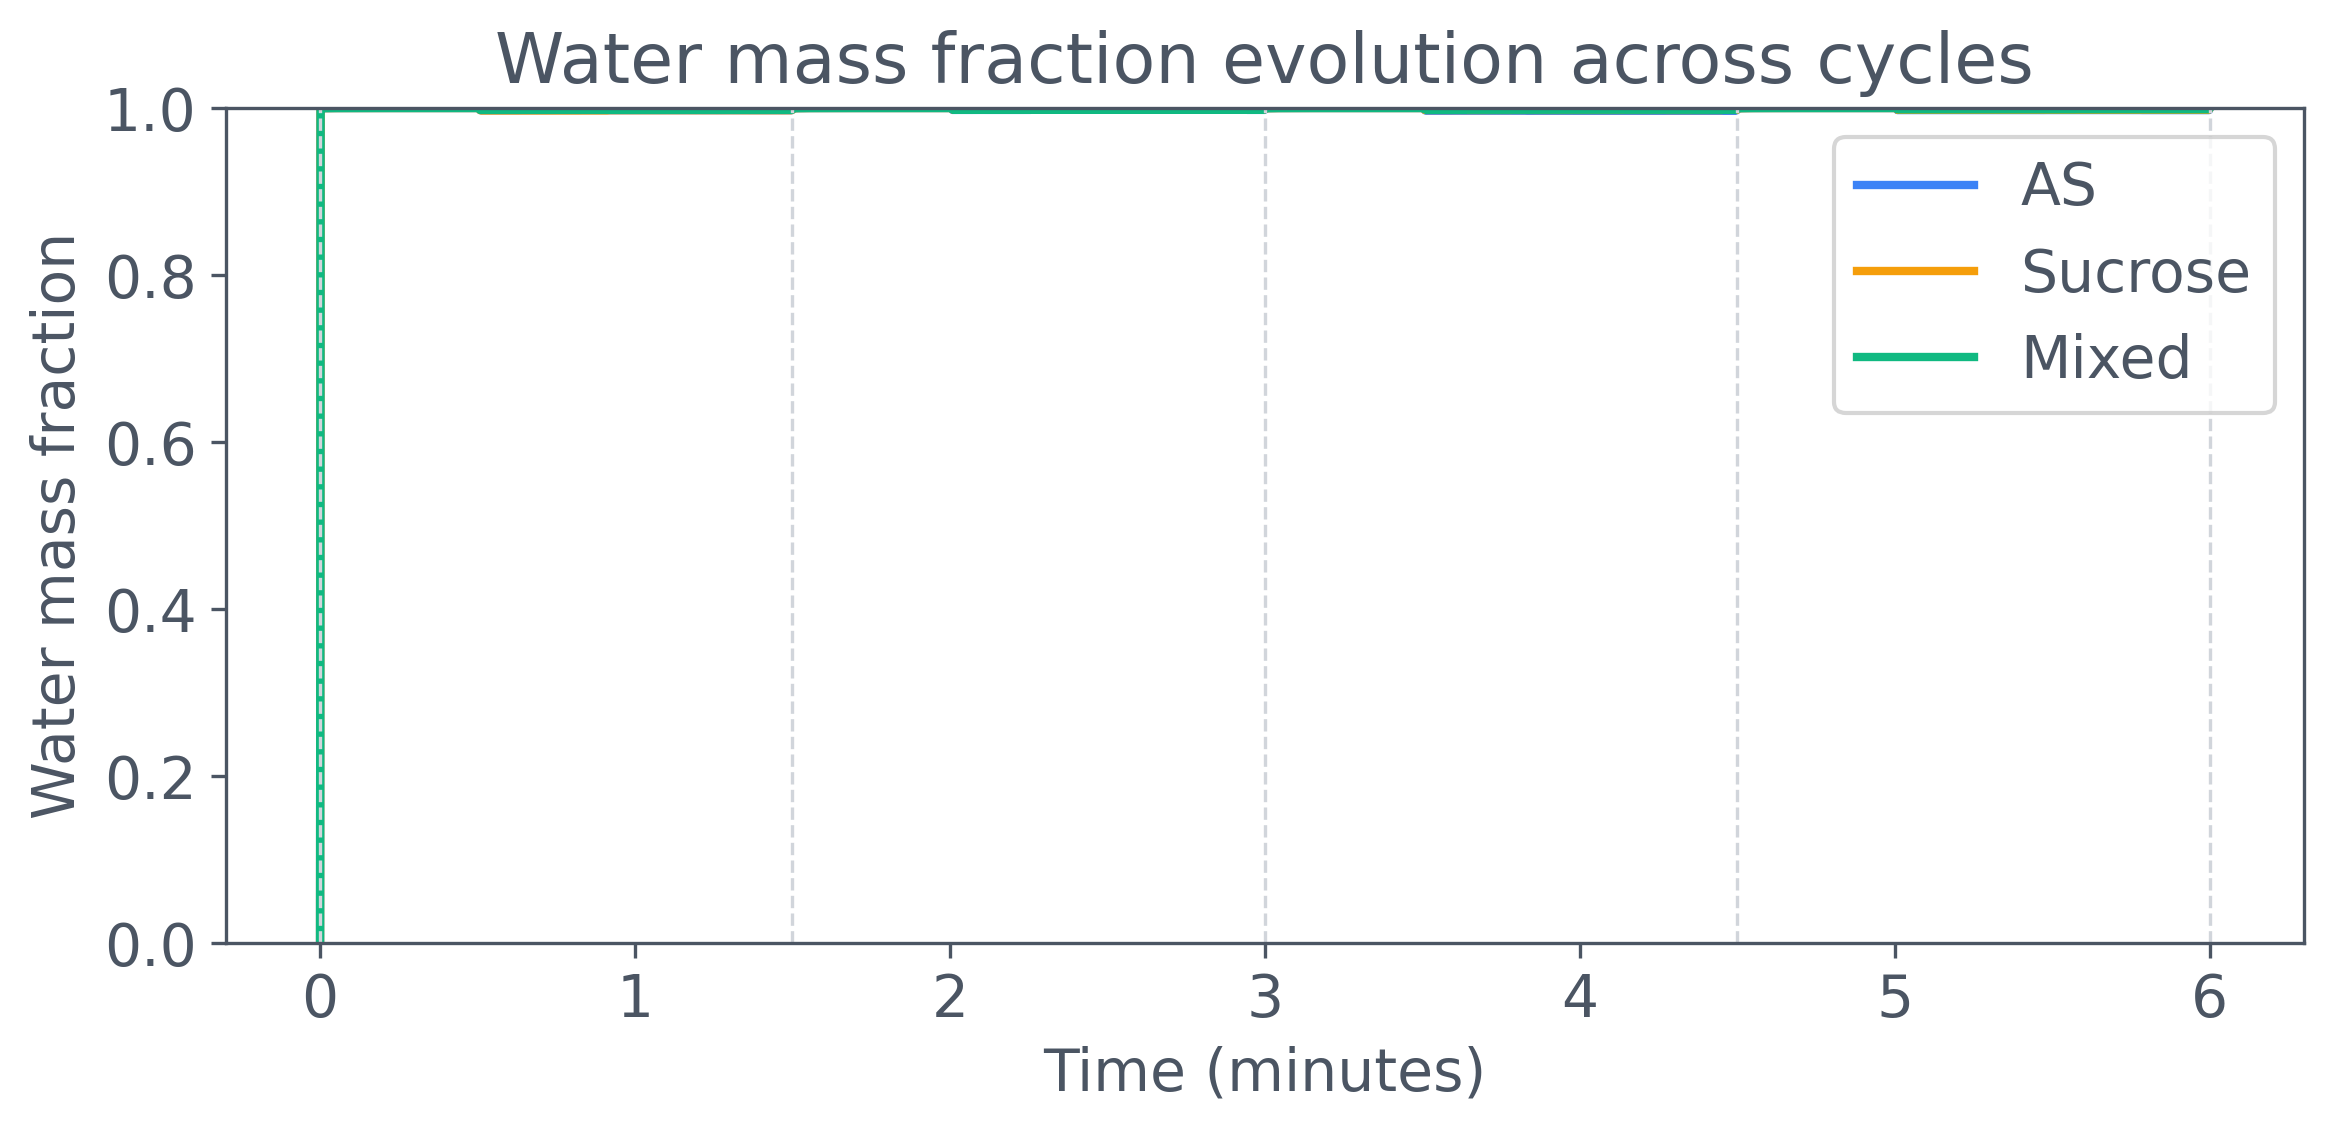
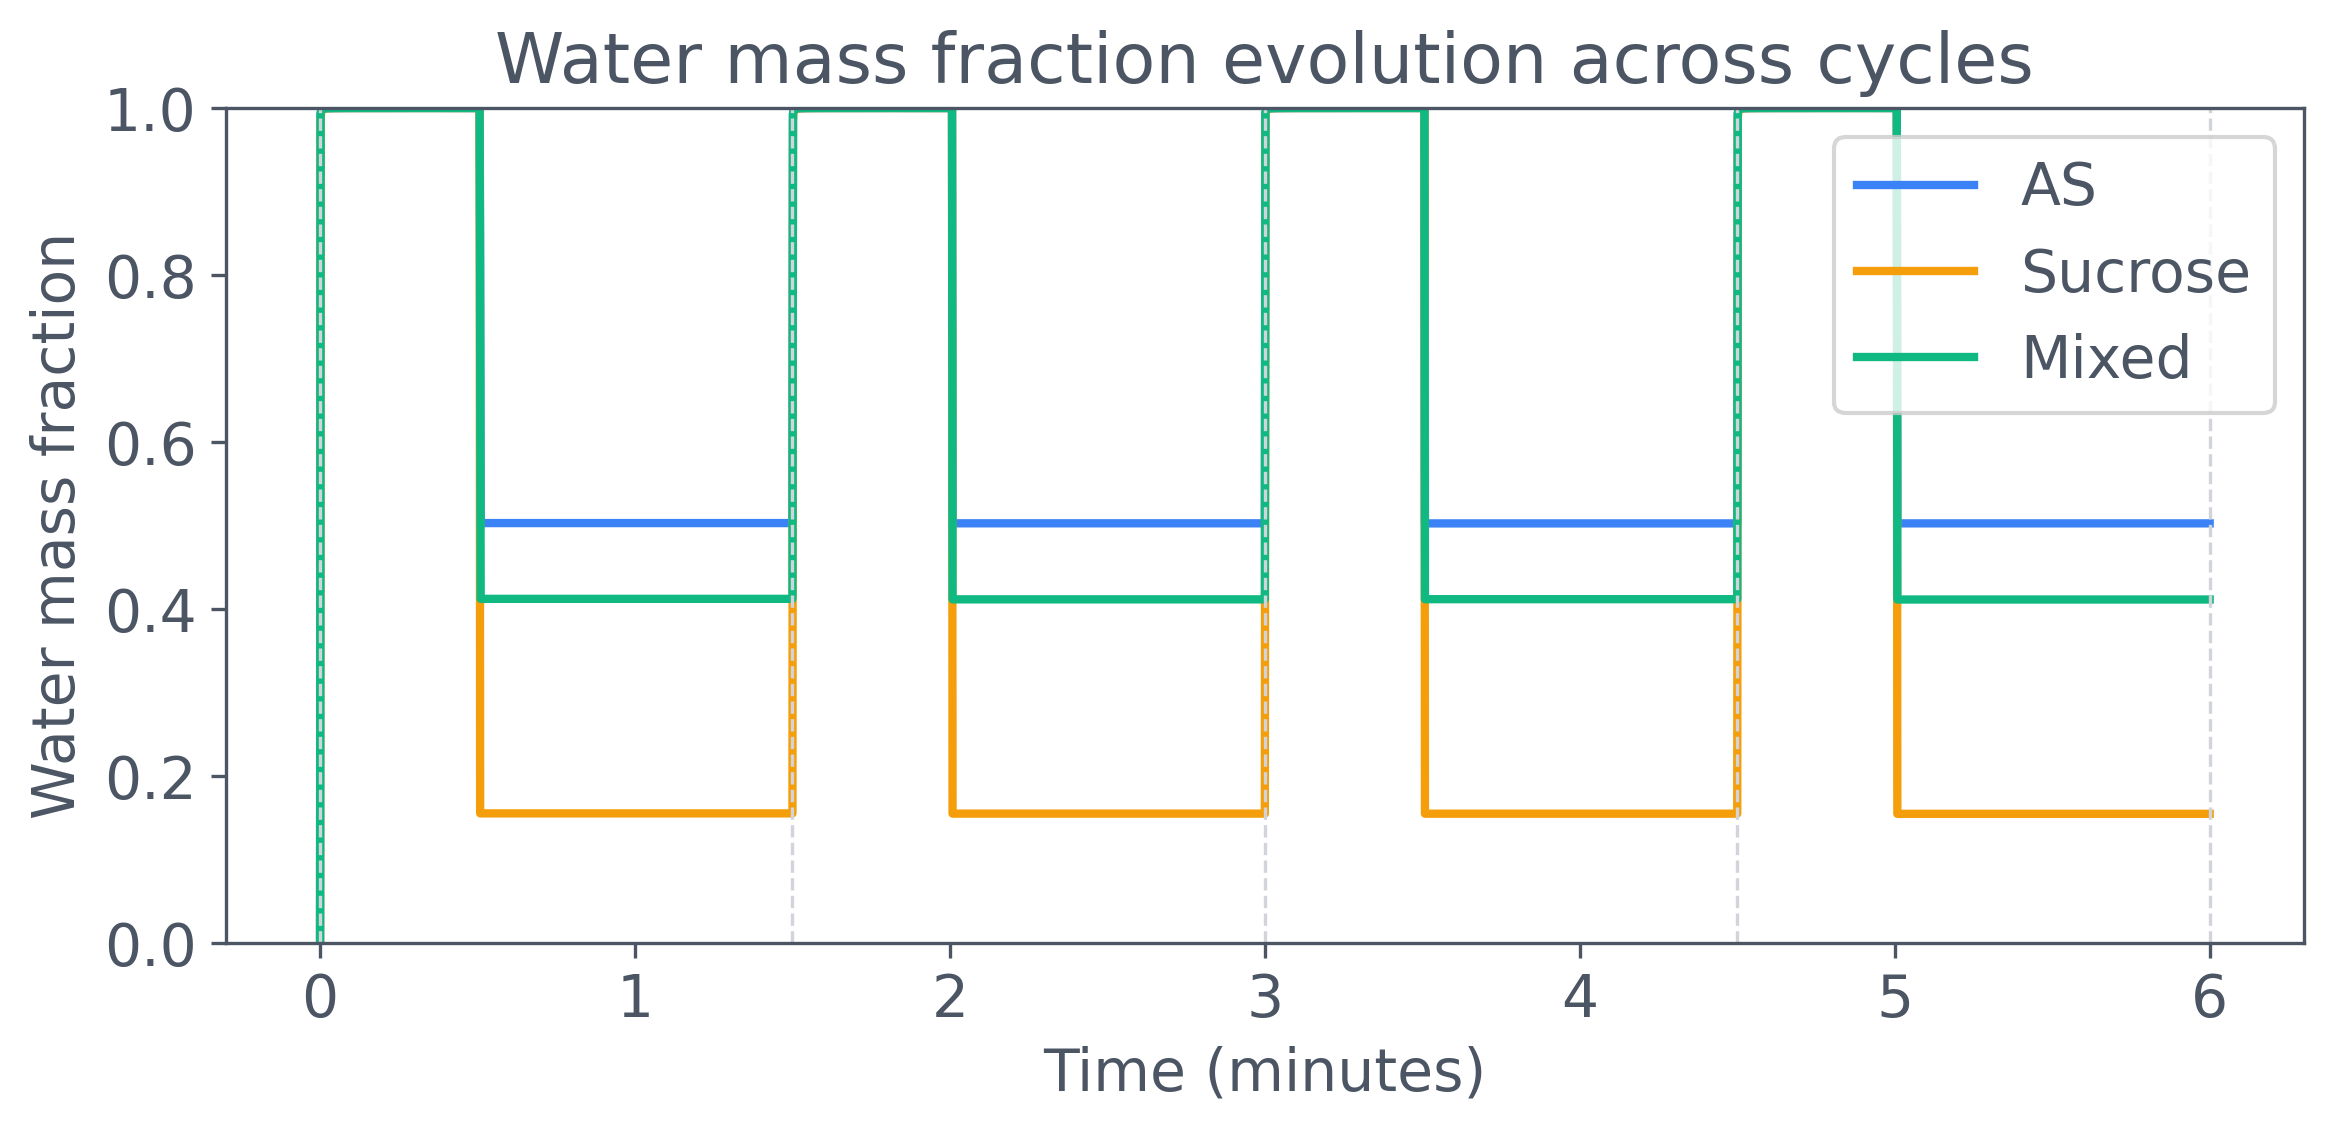
docs(examples): retain full adaptive multi-cycle chamber results

diff --git a/website/results/examples-simulations-cloud-chamber-multi-cycle/source.py b/website/results/examples-simulations-cloud-chamber-multi-cycle/source.py
@@ -45,6 +45,7 @@ import particula as par
 from particula.dynamics.condensation.species_mapping import (
     CondensationSpeciesMap,
 )
+from particula.execution.splitting import condensation_flow
 
 # Optional: uncomment if many steps and you want a progress bar
 # from tqdm import tqdm
@@ -182,6 +183,16 @@ def run_cycle(
         err_msg="Phase durations must be whole multiples of dt",
     )
     history = []
+    growth = condensation_flow(
+        "water_exchange",
+        condensation.condensation_strategy,
+        method="ros3",
+        rtol=1e-5,
+        particle_atol=1e-25,
+        gas_atol=1e-12,
+        first_step=1e-6,
+        max_step=dt,
+    )
 
     # Set initial humid phase water concentration
     aerosol.gas.concentration[0, water_index] = c_water_humid
@@ -206,7 +217,9 @@ def run_cycle(
             aerosol.gas.concentration[:, :-1]
             * aerosol.particles.volume[:, None]
         )
-        aerosol = condensation.execute(aerosol, time_step=dt)
+        accepted = growth.advance(aerosol, time_offset + (t_step - 1) * dt, dt)
+        aerosol.particles.masses[:] = accepted.particles.masses
+        aerosol.gas.concentration[:] = accepted.gas.concentration
         after = np.sum(
             aerosol.particles.masses
             * aerosol.particles.concentration[..., None],
@@ -240,7 +253,11 @@ def run_cycle(
             aerosol.gas.concentration[:, :-1]
             * aerosol.particles.volume[:, None]
         )
-        aerosol = condensation.execute(aerosol, time_step=dt)
+        accepted = growth.advance(
+            aerosol, time_offset + humid_duration + (t_step - 1) * dt, dt
+        )
+        aerosol.particles.masses[:] = accepted.particles.masses
+        aerosol.gas.concentration[:] = accepted.gas.concentration
         after = np.sum(
             aerosol.particles.masses
             * aerosol.particles.concentration[..., None],
@@ -444,7 +461,9 @@ condensation_as = par.dynamics.MassCondensation(
 )
 
 print("Scenario A (AS-only) configured")
-print(aerosol_as)
+print(
+    f"{aerosol_as.particles.masses.shape[1]} slots; gases: {aerosol_as.gas.name}"
+)
 
 
 # %% [markdown]
@@ -509,7 +528,10 @@ condensation_sucrose = par.dynamics.MassCondensation(
 )
 
 print("Scenario B (Sucrose-only) configured")
-print(aerosol_sucrose)
+print(
+    f"{aerosol_sucrose.particles.masses.shape[1]} slots; "
+    f"gases: {aerosol_sucrose.gas.name}"
+)
 
 
 # %% [markdown]
@@ -575,7 +597,10 @@ condensation_mixed = par.dynamics.MassCondensation(
 )
 
 print("Scenario C (Mixed AS + Sucrose) configured")
-print(aerosol_mixed)
+print(
+    f"{aerosol_mixed.particles.masses.shape[1]} slots; "
+    f"gases: {aerosol_mixed.gas.name}"
+)
 
 
 # %% [markdown]
@@ -648,7 +673,9 @@ print("\nAll simulations completed successfully!")
 # forcing phases, while cycle marks repeat every 90 s. A change in trajectory can
 # reflect water exchange or removal; the separate dry-mass diagnostics below
 # help distinguish them. Step-scale oscillations require a refinement study
-# before being interpreted as physical repeated activation.
+# before being interpreted as physical repeated activation. Condensation now
+# uses adaptive ROS3 within each outer interval; the wall-loss/output schedule
+# still needs its own refinement and stochastic uncertainty assessment.
 
 
 # %%

diff --git a/docs/examples/simulations/cloud_chamber_multi_cycle.py b/docs/examples/simulations/cloud_chamber_multi_cycle.py
@@ -1788,18 +1788,21 @@ plt.show()
 # Repeated vapor resets exchange water with surviving seeds while wall loss
 # removes dry material. Tracking both species mass and particle identity separates
 # those effects better than a size curve alone. In the refreshed realization,
-# final dry-mass retention is about 16.1%, 11.2%, and 10.6% for sulfate, sucrose,
+# final dry-mass retention is about 14.1%, 12.1%, and 11.5% for sulfate, sucrose,
 # and mixed seeds, respectively. The first-event check records 0.1 s for both
 # pure compositions and therefore does not resolve an ordering between them.
-# The visible dry-phase oscillations remain a numerical-resolution concern;
-# do not interpret them as observed physical cycling. Composition changes the activity
+# The adaptive ROS3 trajectories have smooth dry phases at the saved 0.1 s
+# observation spacing, replacing the previous fixed-step oscillations. This
+# does not establish convergence of the outer wall-loss schedule or accuracy
+# between observations. Composition changes the activity
 # model, but these separately sampled scenarios do not isolate a universal κ
 # ordering or demonstrate competition between external sulfate and sucrose modes.
 
 # %% [markdown]
 # ## Design the next chamber comparison
 #
-# For a research study, first refine dt while keeping physical humid/dry durations
+# For a research study, refine outer dt and condensation tolerances separately,
+# keeping physical humid/dry durations
 # fixed. Compare full size trajectories, dry retention, and the explicitly chosen
 # activation diagnostic across independent random seeds. Then pair the initial
 # radii across compositions to separate material effects from sample variability.

diff --git a/particula/execution/gpu_coupled_restart.py b/particula/execution/gpu_coupled_restart.py
@@ -16,6 +16,7 @@ from particula.execution.gpu_coupled import (
 )
 from particula.execution.gpu_restart import _device_identity, _runtime
 from particula.execution.ode import StepStatistics
+from particula.execution.prepared_processes import _ProcessPlan
 from particula.execution.prepared_types import SimulationCheckpoint
 
 
@@ -80,7 +81,8 @@ def _validate(saved):
         or saved.events.host_rng is not None
         or saved.events.execution_mode != "resident"
         or any(
-            plan.family
+            type(plan) is not _ProcessPlan
+            or plan.family
             not in {"nucleation", "coagulation", "wall_loss", "dilution"}
             for plan in saved.events.processes
         )

diff --git a/docs/contribute/validation/numerics/simulation-workflow.md b/docs/contribute/validation/numerics/simulation-workflow.md
@@ -35,7 +35,7 @@ Retain the source revision and study inputs alongside saved research output.
 | Analysis provenance and bounded storage | Units, dimensions, gas order, material densities, population measure, volume and caller-supplied configuration/numerics/source; detached arrays, opt-in slots and byte/row limits |
 | Atomic writes and corruption | `analysis_io_test.py` and checkpoint tests: failed replacement preserves prior file; pending AnalysisWriter row can be retried without advancing; hashes, schemas, NPY dimensions, duplicate keys/members and unknown types reject |
 | Native CPU restart | `cpu_restart_test.py`: known native processes, stochastic/condensation RNG, non-unit volumes, fields and ledgers, latent diagnostics and whole-cycle failure preservation |
-| Adaptive restart | CPU RK23/ROS2 and GPU RK23 retain exact scaled coordinates, controller settings/counters, accepted time and table forcing; identical future schedules give bitwise continuation |
+| Adaptive restart | CPU RK23/ROS2/ROS3 and GPU RK23/ROS3 retain exact scaled coordinates, controller settings/counters, accepted time and table forcing; identical future schedules give bitwise continuation |
 | Split restart | Nested sequential/Strang built-in condensation/dilution groups, shortened cycles, custom native fields and matching complete-cycle future state |
 | Prepared restart | Dilution, Brownian coagulation, wall loss, sequence, latent condensation and an integral nucleation pulse on Warp CPU and CUDA; canonical state and RNG match after disk round trip |
 | Registered prepared extensions | Custom clock/field/state and multiple managed stochastic streams survive disk restart with the caller's registry; missing registry rejects |
@@ -58,8 +58,10 @@ never pickle, arbitrary imports or serialized live process callbacks.
 
 Prepared files preserve SimulationCheckpoint v2 and ResidentCheckpoint v5
 canonical bytes; lossy CPU inspection carriers are regenerated from that
-authority. Native CPU and split records use schema 1, and adaptive CPU/GPU
-records use schema 2 for explicit table forcing. Container schemas remain
+authority. Native CPU and split records use schema 1. Adaptive CPU records use
+schema 2 for explicit table forcing; adaptive GPU records use schema 3 for
+ROS3 and exact unchanged-coordinate unscaling. Coupled GPU records use their
+own schema 1 for complete event boundaries. Container schemas remain
 separate from record versions. Unsupported schemas are rejected without guessed
 migration. Prepared/custom adapters remain caller-supplied; loading is data
 reconstruction, and resume validates the owner-specific configuration.
@@ -151,5 +153,7 @@ chamber still requires all 32 boxes, 8,192 slots, 600 one-second cycles, 128-eve
 pulses and complete second-half restart. The forcing example retains 16 boxes,
 4,096 slots, 6,000 one-microsecond intervals and the full doubled-step refinement
 with unchanged control times. Their updated sources and compact recording are
-implemented; publication, figure inspection and full-workload qualification are
-pending. No GPU speedup is inferred from this explicit transfer path.
+implemented. Both full publications are running in a detached checkout pinned
+to `480ecf2c1a`, separately from subsequent edits. Figure inspection and
+full-workload qualification are pending. No GPU speedup is inferred from this
+explicit transfer path.

diff --git a/plans/stage-02-cloud-droplet-examples.md b/plans/stage-02-cloud-droplet-examples.md
@@ -127,8 +127,10 @@ their numerical source was superseded. The complete workloads run in a detached 
 pinned to `12742e1c394c7a836d31aff3aeecbd8c0ff2b523`. The first CPU workflow and
 two CPU comparison examples have completed refresh, inspection and replot.
 The corrected full single-cycle chamber also completed and its figure was
-inspected. Finish and verify the multi-cycle, respiratory and biomass results
-before accepting the migration. Keep the library unchanged during each refresh; the publication
+inspected. The full multi-cycle chamber also completed: all three 1,000-particle
+compositions, four cycles and 3,601 observations each. Its bundle/source hashes
+and eight figures were verified and imported. Finish and verify the respiratory
+and biomass results before accepting the migration. Keep the library unchanged during each refresh; the publication
 hash guard rejects a changed runtime. Current process records are retained in
 `.artifacts/cloud-followthrough-runs.json`; verify live handles before resuming
 or replacing a run.
@@ -146,6 +148,9 @@ Coupled event ownership and exact restart are now implemented with explicit
 state transfers. The focused coupling/numerics/archive tests pass 65 cases;
 the full package gate and complete cyclic chamber/forcing publications remain
 pending. Run and inspect the full cyclic chamber and prepared forcing workloads.
+Both full CUDA publishers are active in `/tmp/particula-stage-02-gpu-validation`,
+pinned to `480ecf2c1a`. Their process records are in
+`.artifacts/coupled-runs.json`; verify live handles before making changes.
 The small CUDA examples
 do not replace that work. Full results, final narratives, review and PR readiness
 remain incomplete; no completion or merge is claimed.

diff --git a/docs/contribute/validation/numerics/adaptive-methods.md b/docs/contribute/validation/numerics/adaptive-methods.md
@@ -399,7 +399,7 @@ retaining 1,000 particles over 60 s. Its inspected plot shows smooth dry
 relaxation, with peak diameter 23.19 µm, 788 survivors and 180.6% final
 wet/initial dry mass at printed precision. Its source and bundle hashes were
 verified before importing the clean-revision result. The multi-cycle,
-respiratory and biomass workloads remain running at this checkpoint.
+respiratory and biomass workloads remained running at that checkpoint.
 The current 558-page website build and rendered structure check both pass
 with zero structural errors.
 
@@ -458,6 +458,17 @@ with zero rendered structure errors. Logs are in `.artifacts/ros3-gpu-*` and
 The full coupled GPU cyclic chamber and forcing workloads are still required.
 These isolated-method results do not qualify the original fixed stochastic
 event schedule under adaptive deterministic condensation.
+
+The corrected **full multi-cycle CPU chamber** subsequently completed in
+2,308.69 s from the same clean `12742e1c39` revision and package source hash.
+All three 1,000-particle compositions produced 3,601 observations through
+360 s, covering four complete wet/dry cycles. All embedded physical checks
+passed. Bundle/source hashes were verified and all eight figures inspected
+before importing the results. The plotted dry phases are smooth at the stored
+0.1 s observation spacing. Final dry-mass retention is 14.1% for ammonium
+sulfate, 12.1% for sucrose and 11.5% for the mixed sample at printed precision.
+These stochastic sample results do not establish a composition ranking or
+experimental accuracy. The respiratory and biomass publications remain active.
 
 Validation commands (from the Stage 2B checkout with `PYTHONPATH=.`):
 
